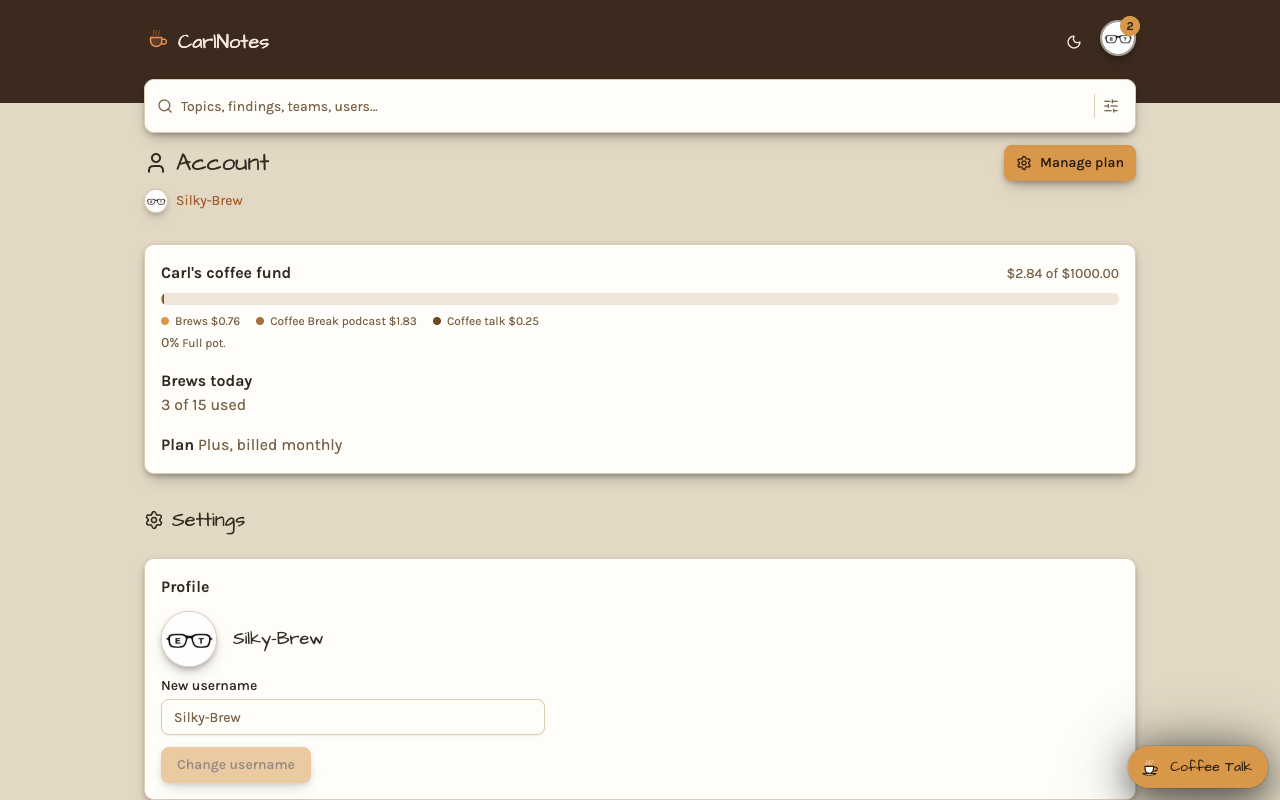
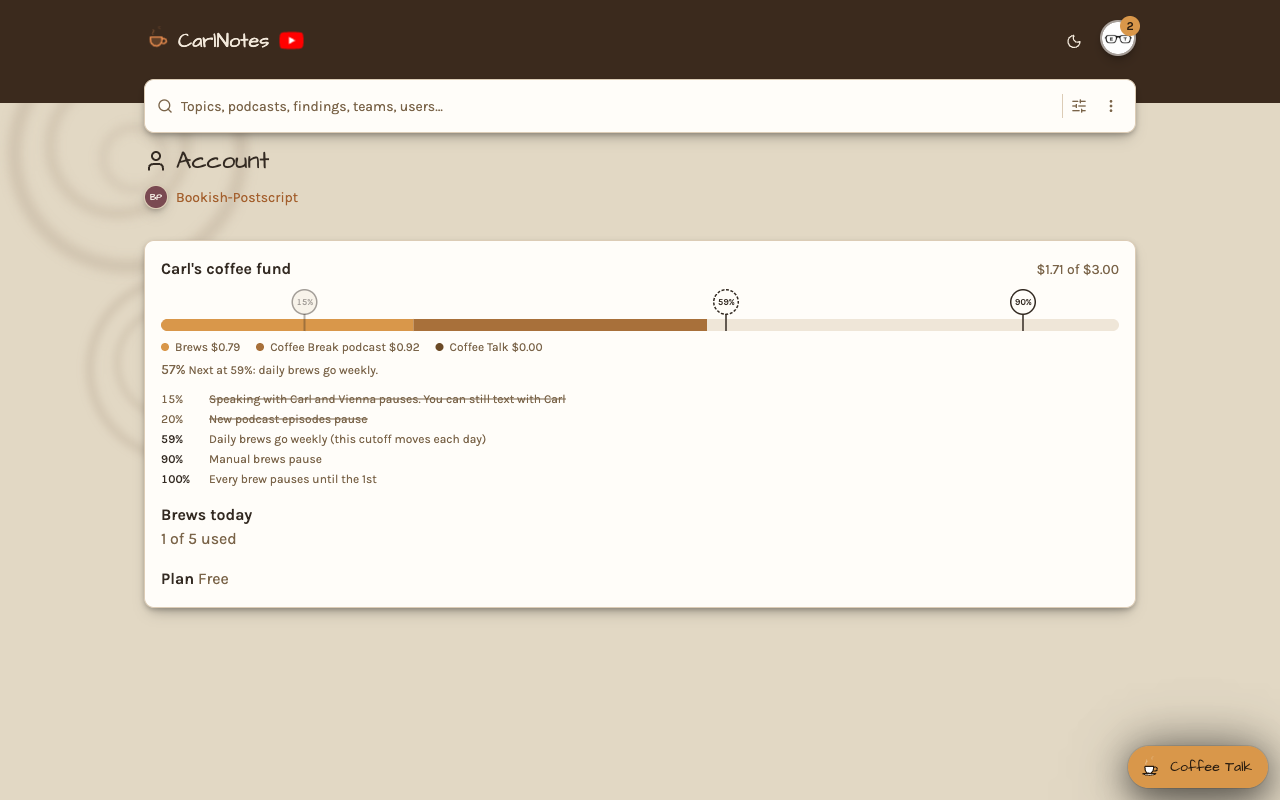
docs: show the monthly budget cutoffs, and say text with Carl
The spoken questions cutoff now says "You can still text with Carl" on the spend meter, the plans page, and the docs.
Retake the account page's coffee fund and the plans page with the cutoffs, and add the feature windows table's
screenshot under the docs' cutoffs table. The activity page spec names the followed topics accordion "Topics you
follow", as the page does.

diff --git a/ui/src/components/account/monthlyBudgetCutoffCopy.ts b/ui/src/components/account/monthlyBudgetCutoffCopy.ts
@@ -16,7 +16,7 @@ type MonthlyBudgetCutoffCopy = {
 }
 
 // the spoken questions cutoff's wording in the list and the table, with typed questions as a second sentence
-const SPOKEN_QUESTIONS_LIST_LINE = "Speaking with Carl and Vienna pauses. You can still text Carl"
+const SPOKEN_QUESTIONS_LIST_LINE = "Speaking with Carl and Vienna pauses. You can still text with Carl"
 
 // each cutoff's wording, keyed by the kind of spend it stops
 export const MONTHLY_BUDGET_CUTOFF_COPY: Record<MonthlyBudgetCutoffKind, MonthlyBudgetCutoffCopy> = {
@@ -24,7 +24,7 @@ export const MONTHLY_BUDGET_CUTOFF_COPY: Record<MonthlyBudgetCutoffKind, Monthly
 		line: "Speaking with Carl and Vienna pauses",
 		listLine: SPOKEN_QUESTIONS_LIST_LINE,
 		tableLine: SPOKEN_QUESTIONS_LIST_LINE,
-		tooltipLines: ["You can still text Carl", "Speaking comes back on the 1st"],
+		tooltipLines: ["You can still text with Carl", "Speaking comes back on the 1st"],
 	},
 	fullPodcastEpisodes: {
 		line: "New podcast episodes go short",

diff --git a/ui/src/components/account/MonthlyBudgetCutoffTable.test.ts b/ui/src/components/account/MonthlyBudgetCutoffTable.test.ts
@@ -13,7 +13,7 @@ const DOCS_PLANS_AND_LIMITS_URL = new URL(
 test("the monthly budget cutoff table has a row per cutoff and ends with the spent budget", () => {
 	const monthlyBudgetCutoffRows = toMonthlyBudgetCutoffRows()
 	expect(monthlyBudgetCutoffRows.map((monthlyBudgetCutoffRow) => monthlyBudgetCutoffRow.line)).toEqual([
-		"Speaking with Carl and Vienna pauses. You can still text Carl",
+		"Speaking with Carl and Vienna pauses. You can still text with Carl",
 		"New podcast episodes go short and replace the last short one",
 		"New podcast episodes pause",
 		"Daily brews go weekly",

diff --git a/openspec/changes/archive/2026-10-20-say-text-with-carl/specs/activity-page/spec.md b/openspec/changes/archive/2026-10-20-say-text-with-carl/specs/activity-page/spec.md
@@ -1,0 +1,120 @@
+## MODIFIED Requirements
+
+### Requirement: The monthly spend meter renders on the Account page
+
+The Account page SHALL show a horizontal progress bar of the user's month-to-date spend versus their effective monthly
+budget — the plan's backstop, or the per-user override when set — fed by the Activity payload. Spend SHALL be the same
+per-user figure the Scan budget records and the admin page reports, never a second computed cost. All figures SHALL
+reset with the budget period. The Account page SHALL share the Activity page's width.
+
+The section SHALL read as the product's own fund rather than as an account balance, since the money is what the product
+spends serving the user and never what the user owes.
+
+The heading SHALL NOT repeat the spend as a percentage. The money figures beside it and the bar below it already carry
+the proportion, and a third statement of it says nothing new.
+
+The Activity payload SHALL include the user's monthly budget cutoffs, lowest share first. Each cutoff SHALL show as a
+circle above the bar that holds its percent, with a line from the circle down through the bar that stops at the bar's
+bottom edge. A cutoff closer than 9 percentage points to the circle before it SHALL share that circle. Each circle SHALL
+have a tooltip with a heading per cutoff, such as "At 75%: new podcast episodes pause", over bullets that say what it
+stops. A circle SHALL fade once the spend passes its first cutoff. A circle that marks the daily Scans cutoff alone,
+which moves each day, SHALL have a dashed edge. A list under the bar SHALL give each cutoff's percent and line, end with
+"Every brew pauses until the 1st" at 100%, and strike through each cutoff the spend has passed. The daily Scans cutoff's
+line SHALL say "(this cutoff moves each day)", and the spoken questions cutoff's line SHALL add "You can still text
+with Carl" as its own sentence. A budget with no cutoffs, an admin's with no override, SHALL show no circles and no list.
+
+In place of a static disclaimer, the section SHALL show a state line that changes as the month goes on. While a cutoff
+is still ahead, it SHALL name the next one, such as "Next at 75%: new podcast episodes pause." Once every cutoff is
+passed, or for a budget with none, it SHALL be keyed on the fraction of the budget spent:
+
+- under 60% — a line saying the fund is full
+- 60% to 89% — a line saying it is getting low
+- 90% to 99% — a line saying it is nearly out
+- at 100% — a line saying it is spent until the period resets, and that the product is still working but cannot record
+  its results
+
+The 100% line SHALL carry an inline upgrade link, since a user who has just run out is at the highest-intent moment the
+page offers.
+
+The bar's segments SHALL keep their labels: Brews, Coffee Break podcast, and Coffee Talk.
+
+#### Scenario: The bar reads the recorded spend and the effective budget
+- **WHEN** the Activity payload is assembled
+- **THEN** spend comes from the same per-user Scan-budget source the admin console reads, and the budget is the override
+  when set, else the plan backstop
+
+#### Scenario: The state line follows the spend
+- **WHEN** a plus user's month-to-date spend crosses 40 percent, and later every cutoff
+- **THEN** the line names each next cutoff in turn, then says the fund is nearly out, without the figures or the bar
+  changing meaning
+
+#### Scenario: A spent budget offers the way up
+- **WHEN** a user has spent their whole monthly budget
+- **THEN** the line says so, says the product is still reading but cannot file notes, and offers an upgrade link inline
+
+#### Scenario: The heading carries no percentage
+- **WHEN** the section renders at any spend level
+- **THEN** the heading names the fund and does not repeat the percentage
+
+#### Scenario: Each cutoff is a circle above the bar
+- **GIVEN** a free user at 57 percent of their budget, with a daily Scans cutoff at 58 percent
+- **WHEN** the Account page renders
+- **THEN** the 15 and 20 percent cutoffs share one faded circle at 15 percent, a dashed circle sits at 58 percent, a
+  circle sits at 90 percent, and the state line says "Next at 58%: daily brews go weekly."
+
+#### Scenario: An admin with no budget override sees no cutoffs
+- **GIVEN** an admin with no budget override
+- **WHEN** the Account page renders
+- **THEN** the bar has no circles and no list, and the state line is keyed on the fraction spent
+
+### Requirement: Subscriptions render in their own accordion, only when non-empty
+
+A subscriptions accordion, titled "Topics you follow", SHALL show the Topics the user subscribes to on Topics they do not own, and SHALL render only when that list is non-empty.
+
+A subscription row SHALL persist once created: switching it off deactivates it and cascades its email preference off, instead of deleting the row, and the row SHALL stay listed — active or not — until the user explicitly deletes it.
+
+Each row SHALL include the topic link, the Topic owner, the date the subscription was created, an Active on/off switch (off deactivates and cascades Emails off, on reactivates without changing Emails), an Emails on/off switch independent of Active, and a delete button that asks for confirmation before permanently removing the row.
+
+Switching Active back on for an invite Topic SHALL tell the user that findings appear from the next scan onward, the same disclaimer the Topic page gives on a fresh subscribe, because an invite Topic gates its findings on when the subscription activated.
+
+A Subscription written by a team join is the member's own row and SHALL render editable like any other; leaving the Team is the Teams page's job, not this table's.
+
+#### Scenario: The section stays hidden when there are no subscriptions
+
+- **WHEN** the user subscribes to no Topics they do not own
+- **THEN** the subscriptions accordion does not render
+
+#### Scenario: Each row names the Topic owner
+
+- **WHEN** the subscriptions table renders
+- **THEN** every row shows the name of the user who owns that Topic
+
+#### Scenario: Deactivating cascades Emails off but keeps the row
+
+- **WHEN** the user switches a subscription row's Active off
+- **THEN** the subscription endpoint deactivates the row and turns its Emails switch off, and the row stays in the table
+
+#### Scenario: Reactivating does not restore Emails
+
+- **WHEN** the user switches a deactivated row's Active back on
+- **THEN** the row reactivates and its Emails switch stays off until the user turns it on separately
+
+#### Scenario: Delete asks first, and is the only thing that removes a row
+
+- **WHEN** the user activates a subscription row's delete button
+- **THEN** a confirmation dialog appears, and the row is permanently removed only on confirming — unlike switching Active off, which only deactivates it
+
+#### Scenario: Reactivating an invite subscription says findings start from the next scan
+
+- **WHEN** the user switches Active back on for a subscription to an invite Topic
+- **THEN** they are told findings appear after the Topic's next scan
+
+#### Scenario: Reactivating a public subscription says nothing extra
+
+- **WHEN** the user switches Active back on for a subscription to a public Topic
+- **THEN** no next-scan disclaimer appears, since a public Topic's existing findings are already visible
+
+#### Scenario: A team-held subscription stays the member's own
+
+- **WHEN** a row's subscription was written by a team join
+- **THEN** its switches work like any other row's, and deleting it does not remove the member from the Team

diff --git a/docs/src/content/docs/account/plans-and-limits.md b/docs/src/content/docs/account/plans-and-limits.md
@@ -47,9 +47,9 @@ plan's monthly limit: $3 on **Free**, $15 on **Plus**, or $35 on **Premium**. Th
 brews it buys as an estimate: "About 30, 150, or 350 Brews a month". If the coffee fund runs out, your brews pause until
 it resets on the first of the month, UTC.
 
-![Carl's coffee fund on the account page: the month's spend against the plan's monthly limit, split
-into brews, the Coffee Break podcast, and Coffee Talk, with the day's brews and the current plan
-below](../../../assets/screenshots/account-coffee-fund.png)
+![Carl's coffee fund on the account page: the month's spend against the plan's monthly limit, split into brews, the
+Coffee Break podcast, and Coffee Talk, with a circle above the bar for each cutoff, the list of cutoffs under it, and
+the day's brews and the current plan below](../../../assets/screenshots/account-coffee-fund.png)
 
 ## When the coffee fund runs low
 
@@ -58,12 +58,15 @@ and brews pause last:
 
 | | Free | Plus | Premium |
 | --- | --- | --- | --- |
-| Speaking with Carl and Vienna pauses. You can still text Carl | 15% | 40% | 50% |
+| Speaking with Carl and Vienna pauses. You can still text with Carl | 15% | 40% | 50% |
 | New podcast episodes go short and replace the last short one | Always short | 60% | 70% |
 | New podcast episodes pause | 20% | 75% | 85% |
 | Daily brews go weekly | Moves each day | Moves each day | Moves each day |
 | Manual brews pause. Scheduled brews keep running | 90% | 90% | 90% |
 | Every brew pauses until the 1st | 100% | 100% | 100% |
+
+![The plans page's Feature windows table: each cutoff's share of the coffee fund on Free, Plus, and
+Premium](../../../assets/screenshots/plans-feature-windows.png)
 
 The daily brews cutoff moves. It sits where the rest of the fund covers your daily brews to the 1st, so it starts low
 and climbs each day. Past it, each daily topic brews once a week. Manual brews keep working until 90%.

diff --git a/openspec/specs/activity-page/spec.md b/openspec/specs/activity-page/spec.md
@@ -35,7 +35,7 @@ stops. A circle SHALL fade once the spend passes its first cutoff. A circle that
 which moves each day, SHALL have a dashed edge. A list under the bar SHALL give each cutoff's percent and line, end with
 "Every brew pauses until the 1st" at 100%, and strike through each cutoff the spend has passed. The daily Scans cutoff's
 line SHALL say "(this cutoff moves each day)", and the spoken questions cutoff's line SHALL add "You can still text
-Carl" as its own sentence. A budget with no cutoffs, an admin's with no override, SHALL show no circles and no list.
+with Carl" as its own sentence. A budget with no cutoffs, an admin's with no override, SHALL show no circles and no list.
 
 In place of a static disclaimer, the section SHALL show a state line that changes as the month goes on. While a cutoff
 is still ahead, it SHALL name the next one, such as "Next at 75%: new podcast episodes pause." Once every cutoff is
@@ -142,7 +142,7 @@ The accordion SHALL carry a Visibility column naming who may see each Topic, wit
 
 ### Requirement: Subscriptions render in their own accordion, only when non-empty
 
-A subscriptions accordion, titled "Your topic subscriptions", SHALL show the Topics the user subscribes to on Topics they do not own, and SHALL render only when that list is non-empty.
+A subscriptions accordion, titled "Topics you follow", SHALL show the Topics the user subscribes to on Topics they do not own, and SHALL render only when that list is non-empty.
 
 A subscription row SHALL persist once created: switching it off deactivates it and cascades its email preference off, instead of deleting the row, and the row SHALL stay listed — active or not — until the user explicitly deletes it.
 

diff --git a/openspec/changes/archive/2026-10-20-say-text-with-carl/proposal.md b/openspec/changes/archive/2026-10-20-say-text-with-carl/proposal.md
@@ -1,0 +1,25 @@
+## Why
+
+The spoken questions cutoff tells a user that typing still works. "You can still text Carl" reads as texting him a
+message from a phone. "You can still text with Carl" says the chat keeps working. The living spec also still names the
+Activity page's followed topics accordion "Your topic subscriptions", which customer copy now calls "Topics you
+follow", since copy says follow.
+
+## What Changes
+
+- The spoken questions cutoff's line and tooltip say "You can still text with Carl", on the account page's spend meter,
+  the plans page's table, and the docs.
+- The activity-page spec names the accordion "Topics you follow", as the page already does.
+
+## Capabilities
+
+### New Capabilities
+
+### Modified Capabilities
+- `activity-page`: the spoken questions cutoff's wording and the followed topics accordion's title.
+
+## Impact
+
+- `ui/src/components/account/monthlyBudgetCutoffCopy.ts` and its table test.
+- `docs/src/content/docs/account/plans-and-limits.md`, `docs/src/content/docs/feed/chat.md`, and
+  `docs/src/content/docs/feed/coffee-break.md`.

diff --git a/docs/src/content/docs/feed/coffee-break.md b/docs/src/content/docs/feed/coffee-break.md
@@ -93,7 +93,7 @@ who is answering, then the episode again.
 The question and its answer are saved in the topic's [Coffee Talk](/docs/feed/chat/), with a small tag naming the
 episode and the chapter. Tap the tag to listen to that chapter again. Talking with Carl and Vienna needs an account. It
 spends from the same coffee fund as Coffee Talk. Speaking pauses once the month's spend reaches 15% of the fund on
-**Free**, 40% on **Plus**, or 50% on **Premium**. You can still text Carl.
+**Free**, 40% on **Plus**, or 50% on **Premium**. You can still text with Carl.
 
 ![A question asked from the podcast player in the topic's private chat, tagged with its episode and chapter, and
 Vienna's answer under her picture and name](../../../assets/screenshots/chat-podcast-question.png)

diff --git a/docs/src/content/docs/feed/chat.md b/docs/src/content/docs/feed/chat.md
@@ -79,7 +79,7 @@ mid-answer or typing a question also ends it. The next tap starts a new conversa
 
 Speaking with Carl pauses once the month's spend reaches 15% of the coffee fund on **Free**, 40% on **Plus**, or 50% on
 **Premium**. Past that, the microphone opens the plans page. On **Premium**, it says when speaking comes back instead.
-You can still text Carl. See
+You can still text with Carl. See
 [When the coffee fund runs low](/docs/account/plans-and-limits/#when-the-coffee-fund-runs-low).
 
 A question asked from the podcast player's microphone shows up here too. It sits under a small tag naming the episode

diff --git a/openspec/changes/archive/2026-10-20-say-text-with-carl/tasks.md b/openspec/changes/archive/2026-10-20-say-text-with-carl/tasks.md
@@ -1,0 +1,4 @@
+## 1. Wording
+
+- [x] 1.1 Say "You can still text with Carl" in `monthlyBudgetCutoffCopy.ts`, its table test, and the three docs pages
+- [x] 1.2 Name the followed topics accordion "Topics you follow" in the activity-page spec
